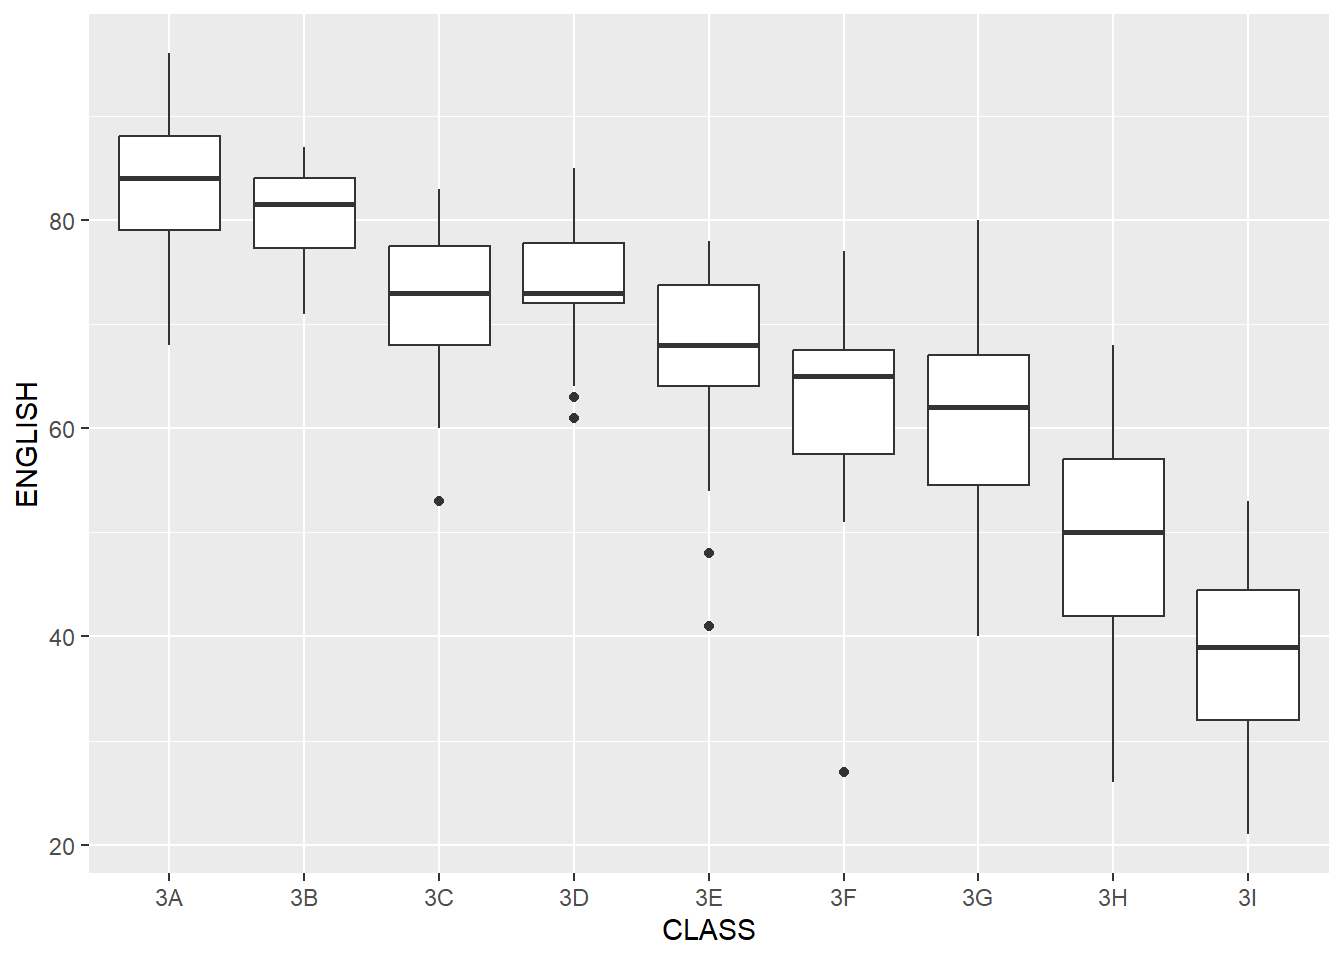
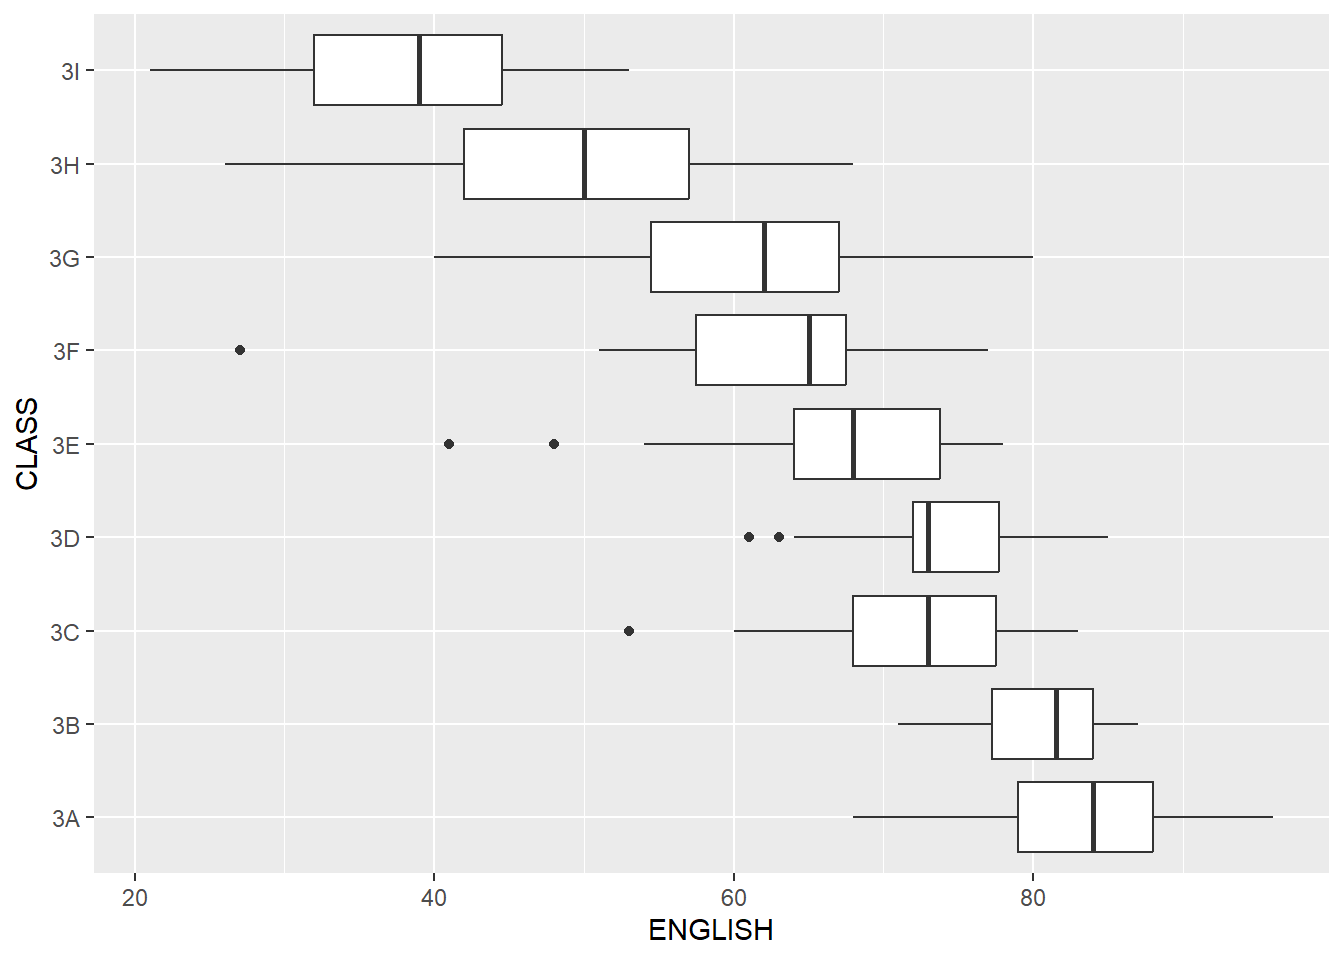
commit in class ex 04

diff --git a/_site/In-class_Exe/In-class_Ex04.html b/_site/In-class_Exe/In-class_Ex04.html
@@ -194,8 +194,14 @@ pre > code.sourceCode > span > a:first-child::before { text-decoration: underlin
 <div id="quarto-content" class="quarto-container page-columns page-rows-contents page-layout-article page-navbar">
 <!-- sidebar -->
 <!-- margin-sidebar -->
-    <div id="quarto-margin-sidebar" class="sidebar margin-sidebar zindex-bottom">
-        
+    <div id="quarto-margin-sidebar" class="sidebar margin-sidebar">
+        <nav id="TOC" role="doc-toc" class="toc-active">
+    <h2 id="toc-title">On this page</h2>
+   
+  <ul>
+  <li><a href="#rain-drop-plot." id="toc-rain-drop-plot." class="nav-link active" data-scroll-target="#rain-drop-plot.">rain drop plot.</a></li>
+  </ul>
+</nav>
     </div>
 <!-- main -->
 <main class="content" id="quarto-document-content">
@@ -238,15 +244,16 @@ pre > code.sourceCode > span > a:first-child::before { text-decoration: underlin
 
 
 <div class="cell">
-<div class="sourceCode cell-code" id="cb1"><pre class="sourceCode r code-with-copy"><code class="sourceCode r"><span id="cb1-1"><a href="#cb1-1" aria-hidden="true" tabindex="-1"></a>pacman<span class="sc">::</span><span class="fu">p_load</span>(haven, SmartEDA, tidyverse, tidymodels)</span></code><button title="Copy to Clipboard" class="code-copy-button"><i class="bi"></i></button></pre></div>
+<div class="sourceCode cell-code" id="cb1"><pre class="sourceCode r code-with-copy"><code class="sourceCode r"><span id="cb1-1"><a href="#cb1-1" aria-hidden="true" tabindex="-1"></a>pacman<span class="sc">::</span><span class="fu">p_load</span>(haven, SmartEDA, tidyverse, tidymodels, ggdist, ggridges, ggthemes,</span>
+<span id="cb1-2"><a href="#cb1-2" aria-hidden="true" tabindex="-1"></a>               colorspace, gridExtra, ggstatsplot)</span></code><button title="Copy to Clipboard" class="code-copy-button"><i class="bi"></i></button></pre></div>
 </div>
 <div class="cell">
 <div class="sourceCode cell-code" id="cb2"><pre class="sourceCode r code-with-copy"><code class="sourceCode r"><span id="cb2-1"><a href="#cb2-1" aria-hidden="true" tabindex="-1"></a>exam <span class="ot">&lt;-</span> <span class="fu">read_csv</span>(<span class="st">"data/Exam_data.csv"</span>)</span></code><button title="Copy to Clipboard" class="code-copy-button"><i class="bi"></i></button></pre></div>
 </div>
 <div class="cell">
 <div class="sourceCode cell-code" id="cb3"><pre class="sourceCode r code-with-copy"><code class="sourceCode r"><span id="cb3-1"><a href="#cb3-1" aria-hidden="true" tabindex="-1"></a><span class="fu">ggplot</span>(<span class="at">data=</span>exam, </span>
-<span id="cb3-2"><a href="#cb3-2" aria-hidden="true" tabindex="-1"></a>       <span class="fu">aes</span>(<span class="at">y=</span>ENGLISH,</span>
-<span id="cb3-3"><a href="#cb3-3" aria-hidden="true" tabindex="-1"></a>           <span class="at">x=</span>CLASS)) <span class="sc">+</span></span>
+<span id="cb3-2"><a href="#cb3-2" aria-hidden="true" tabindex="-1"></a>       <span class="fu">aes</span>(<span class="at">y=</span>CLASS,</span>
+<span id="cb3-3"><a href="#cb3-3" aria-hidden="true" tabindex="-1"></a>           <span class="at">x=</span>ENGLISH)) <span class="sc">+</span></span>
 <span id="cb3-4"><a href="#cb3-4" aria-hidden="true" tabindex="-1"></a>  <span class="fu">geom_boxplot</span>()</span></code><button title="Copy to Clipboard" class="code-copy-button"><i class="bi"></i></button></pre></div>
 <div class="cell-output-display">
 <div>
@@ -256,8 +263,97 @@ pre > code.sourceCode > span > a:first-child::before { text-decoration: underlin
 </div>
 </div>
 </div>
+<div class="cell">
+<div class="sourceCode cell-code" id="cb4"><pre class="sourceCode r code-with-copy"><code class="sourceCode r"><span id="cb4-1"><a href="#cb4-1" aria-hidden="true" tabindex="-1"></a><span class="fu">ggplot</span>(exam, </span>
+<span id="cb4-2"><a href="#cb4-2" aria-hidden="true" tabindex="-1"></a>       <span class="fu">aes</span>(<span class="at">x =</span> ENGLISH, </span>
+<span id="cb4-3"><a href="#cb4-3" aria-hidden="true" tabindex="-1"></a>           <span class="at">y =</span> CLASS)) <span class="sc">+</span></span>
+<span id="cb4-4"><a href="#cb4-4" aria-hidden="true" tabindex="-1"></a>  <span class="co">#this part to create in ridgelines</span></span>
+<span id="cb4-5"><a href="#cb4-5" aria-hidden="true" tabindex="-1"></a>  <span class="fu">geom_density_ridges</span>(</span>
+<span id="cb4-6"><a href="#cb4-6" aria-hidden="true" tabindex="-1"></a>    <span class="at">scale =</span> <span class="dv">3</span>,</span>
+<span id="cb4-7"><a href="#cb4-7" aria-hidden="true" tabindex="-1"></a>    <span class="at">rel_min_height =</span> <span class="fl">0.01</span>,</span>
+<span id="cb4-8"><a href="#cb4-8" aria-hidden="true" tabindex="-1"></a>    <span class="at">bandwidth =</span> <span class="fl">3.4</span>,</span>
+<span id="cb4-9"><a href="#cb4-9" aria-hidden="true" tabindex="-1"></a>    <span class="at">fill =</span> <span class="fu">lighten</span>(<span class="st">"#7097BB"</span>, .<span class="dv">3</span>),</span>
+<span id="cb4-10"><a href="#cb4-10" aria-hidden="true" tabindex="-1"></a>    <span class="at">color =</span> <span class="st">"white"</span></span>
+<span id="cb4-11"><a href="#cb4-11" aria-hidden="true" tabindex="-1"></a>  ) <span class="sc">+</span></span>
+<span id="cb4-12"><a href="#cb4-12" aria-hidden="true" tabindex="-1"></a>  <span class="fu">scale_x_continuous</span>(</span>
+<span id="cb4-13"><a href="#cb4-13" aria-hidden="true" tabindex="-1"></a>    <span class="at">name =</span> <span class="st">"English grades"</span>,</span>
+<span id="cb4-14"><a href="#cb4-14" aria-hidden="true" tabindex="-1"></a>    <span class="at">expand =</span> <span class="fu">c</span>(<span class="dv">0</span>, <span class="dv">0</span>)</span>
+<span id="cb4-15"><a href="#cb4-15" aria-hidden="true" tabindex="-1"></a>    ) <span class="sc">+</span></span>
+<span id="cb4-16"><a href="#cb4-16" aria-hidden="true" tabindex="-1"></a>  <span class="do">### x axis continous data</span></span>
+<span id="cb4-17"><a href="#cb4-17" aria-hidden="true" tabindex="-1"></a>  <span class="fu">scale_y_discrete</span>(<span class="at">name =</span> <span class="cn">NULL</span>, <span class="at">expand =</span> <span class="fu">expansion</span>(<span class="at">add =</span> <span class="fu">c</span>(<span class="fl">0.2</span>, <span class="fl">2.6</span>))) <span class="sc">+</span></span>
+<span id="cb4-18"><a href="#cb4-18" aria-hidden="true" tabindex="-1"></a>  <span class="fu">theme_ridges</span>()</span></code><button title="Copy to Clipboard" class="code-copy-button"><i class="bi"></i></button></pre></div>
+<div class="cell-output-display">
+<div>
+<figure class="figure">
+<p><img src="In-class_Ex04_files/figure-html/unnamed-chunk-4-1.png" class="img-fluid figure-img" width="672"></p>
+</figure>
+</div>
+</div>
+</div>
+<section id="rain-drop-plot." class="level3">
+<h3 class="anchored" data-anchor-id="rain-drop-plot.">rain drop plot.</h3>
+<p>The probabilty density plot will smooth out the the curve and the dot plot will be able to show the actual data points.</p>
+<div class="cell">
+<div class="sourceCode cell-code" id="cb5"><pre class="sourceCode r code-with-copy"><code class="sourceCode r"><span id="cb5-1"><a href="#cb5-1" aria-hidden="true" tabindex="-1"></a><span class="fu">ggplot</span>(exam, </span>
+<span id="cb5-2"><a href="#cb5-2" aria-hidden="true" tabindex="-1"></a>       <span class="fu">aes</span>(<span class="at">x =</span> RACE, </span>
+<span id="cb5-3"><a href="#cb5-3" aria-hidden="true" tabindex="-1"></a>           <span class="at">y =</span> ENGLISH)) <span class="sc">+</span></span>
+<span id="cb5-4"><a href="#cb5-4" aria-hidden="true" tabindex="-1"></a>  <span class="fu">stat_halfeye</span>(<span class="at">adjust =</span> <span class="fl">0.5</span>,</span>
+<span id="cb5-5"><a href="#cb5-5" aria-hidden="true" tabindex="-1"></a>               <span class="at">justification =</span> <span class="sc">-</span><span class="fl">0.2</span>,</span>
+<span id="cb5-6"><a href="#cb5-6" aria-hidden="true" tabindex="-1"></a>               <span class="at">.width =</span> <span class="dv">0</span>,</span>
+<span id="cb5-7"><a href="#cb5-7" aria-hidden="true" tabindex="-1"></a>               <span class="at">point_colour =</span> <span class="cn">NA</span>) <span class="sc">+</span></span>
+<span id="cb5-8"><a href="#cb5-8" aria-hidden="true" tabindex="-1"></a>  <span class="fu">geom_boxplot</span>(<span class="at">width =</span> .<span class="dv">20</span>,</span>
+<span id="cb5-9"><a href="#cb5-9" aria-hidden="true" tabindex="-1"></a>               <span class="at">outlier.shape =</span> <span class="cn">NA</span>) <span class="sc">+</span></span>
+<span id="cb5-10"><a href="#cb5-10" aria-hidden="true" tabindex="-1"></a>  <span class="fu">stat_dots</span>(<span class="at">side =</span> <span class="st">"left"</span>, </span>
+<span id="cb5-11"><a href="#cb5-11" aria-hidden="true" tabindex="-1"></a>            <span class="at">justification =</span> <span class="fl">1.2</span>, </span>
+<span id="cb5-12"><a href="#cb5-12" aria-hidden="true" tabindex="-1"></a>            <span class="at">binwidth =</span> .<span class="dv">5</span>,</span>
+<span id="cb5-13"><a href="#cb5-13" aria-hidden="true" tabindex="-1"></a>            <span class="at">dotsize =</span> <span class="dv">2</span>)</span></code><button title="Copy to Clipboard" class="code-copy-button"><i class="bi"></i></button></pre></div>
+<div class="cell-output-display">
+<div>
+<figure class="figure">
+<p><img src="In-class_Ex04_files/figure-html/unnamed-chunk-5-1.png" class="img-fluid figure-img" width="672"></p>
+</figure>
+</div>
+</div>
+</div>
+<div class="cell">
+<div class="sourceCode cell-code" id="cb6"><pre class="sourceCode r code-with-copy"><code class="sourceCode r"><span id="cb6-1"><a href="#cb6-1" aria-hidden="true" tabindex="-1"></a><span class="fu">ggbetweenstats</span>(</span>
+<span id="cb6-2"><a href="#cb6-2" aria-hidden="true" tabindex="-1"></a>  <span class="at">data =</span> exam,</span>
+<span id="cb6-3"><a href="#cb6-3" aria-hidden="true" tabindex="-1"></a>  <span class="at">x =</span> GENDER, </span>
+<span id="cb6-4"><a href="#cb6-4" aria-hidden="true" tabindex="-1"></a>  <span class="at">y =</span> MATHS,</span>
+<span id="cb6-5"><a href="#cb6-5" aria-hidden="true" tabindex="-1"></a>  <span class="at">type =</span> <span class="st">"np"</span>, <span class="co">#np is non parametric </span></span>
+<span id="cb6-6"><a href="#cb6-6" aria-hidden="true" tabindex="-1"></a>  <span class="at">messages =</span> <span class="cn">FALSE</span></span>
+<span id="cb6-7"><a href="#cb6-7" aria-hidden="true" tabindex="-1"></a>)</span></code><button title="Copy to Clipboard" class="code-copy-button"><i class="bi"></i></button></pre></div>
+<div class="cell-output-display">
+<div>
+<figure class="figure">
+<p><img src="In-class_Ex04_files/figure-html/unnamed-chunk-6-1.png" class="img-fluid figure-img" width="672"></p>
+</figure>
+</div>
+</div>
+</div>
+<div class="cell">
+<div class="sourceCode cell-code" id="cb7"><pre class="sourceCode r code-with-copy"><code class="sourceCode r"><span id="cb7-1"><a href="#cb7-1" aria-hidden="true" tabindex="-1"></a><span class="fu">ggbetweenstats</span>(</span>
+<span id="cb7-2"><a href="#cb7-2" aria-hidden="true" tabindex="-1"></a>  <span class="at">data =</span> exam,</span>
+<span id="cb7-3"><a href="#cb7-3" aria-hidden="true" tabindex="-1"></a>  <span class="at">x =</span> RACE, </span>
+<span id="cb7-4"><a href="#cb7-4" aria-hidden="true" tabindex="-1"></a>  <span class="at">y =</span> ENGLISH,</span>
+<span id="cb7-5"><a href="#cb7-5" aria-hidden="true" tabindex="-1"></a>  <span class="at">type =</span> <span class="st">"p"</span>,</span>
+<span id="cb7-6"><a href="#cb7-6" aria-hidden="true" tabindex="-1"></a>  <span class="at">mean.ci =</span> <span class="cn">TRUE</span>, </span>
+<span id="cb7-7"><a href="#cb7-7" aria-hidden="true" tabindex="-1"></a>  <span class="at">pairwise.comparisons =</span> <span class="cn">TRUE</span>, </span>
+<span id="cb7-8"><a href="#cb7-8" aria-hidden="true" tabindex="-1"></a>  <span class="at">pairwise.display =</span> <span class="st">"s"</span>,</span>
+<span id="cb7-9"><a href="#cb7-9" aria-hidden="true" tabindex="-1"></a>  <span class="at">p.adjust.method =</span> <span class="st">"fdr"</span>,</span>
+<span id="cb7-10"><a href="#cb7-10" aria-hidden="true" tabindex="-1"></a>  <span class="at">messages =</span> <span class="cn">FALSE</span></span>
+<span id="cb7-11"><a href="#cb7-11" aria-hidden="true" tabindex="-1"></a>)</span></code><button title="Copy to Clipboard" class="code-copy-button"><i class="bi"></i></button></pre></div>
+<div class="cell-output-display">
+<div>
+<figure class="figure">
+<p><img src="In-class_Ex04_files/figure-html/unnamed-chunk-7-1.png" class="img-fluid figure-img" width="672"></p>
+</figure>
+</div>
+</div>
+</div>
 
 
+</section>
 
 </main> <!-- /main -->
 <script id="quarto-html-after-body" type="application/javascript">
